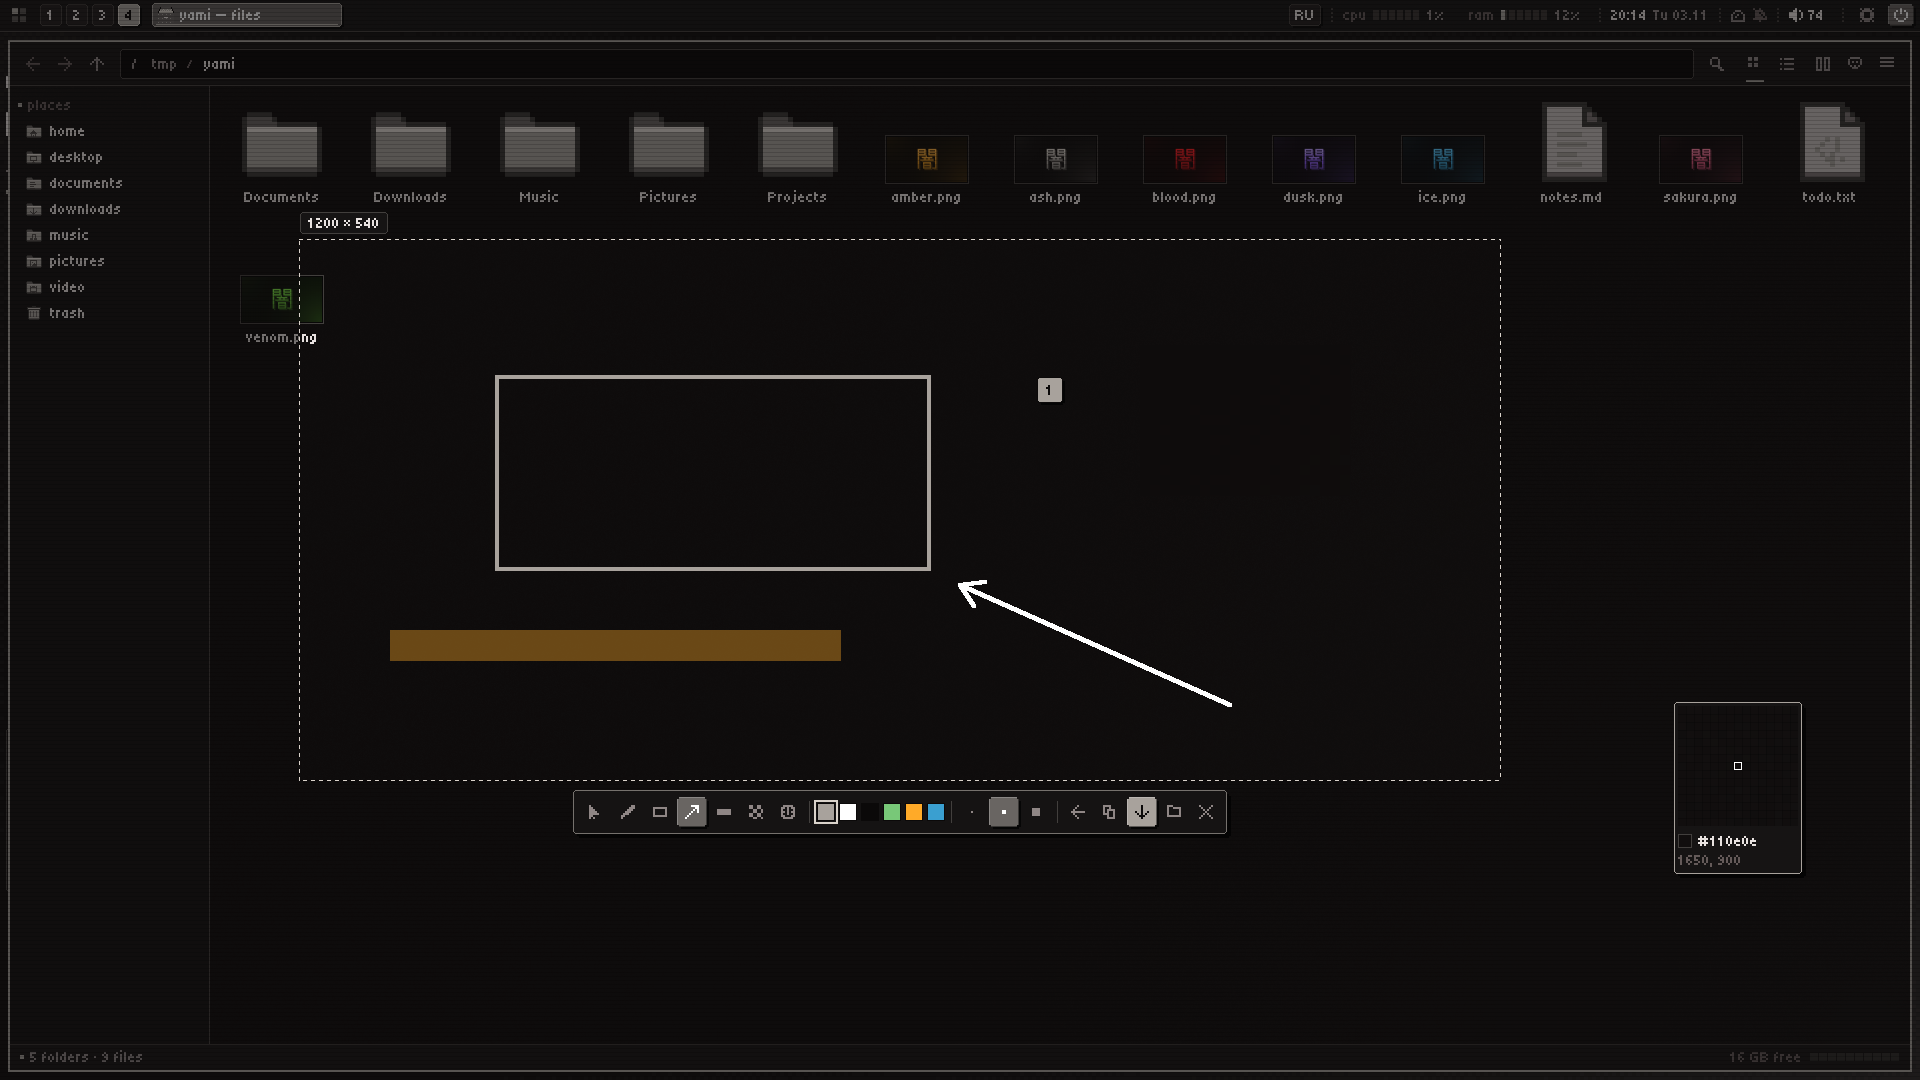
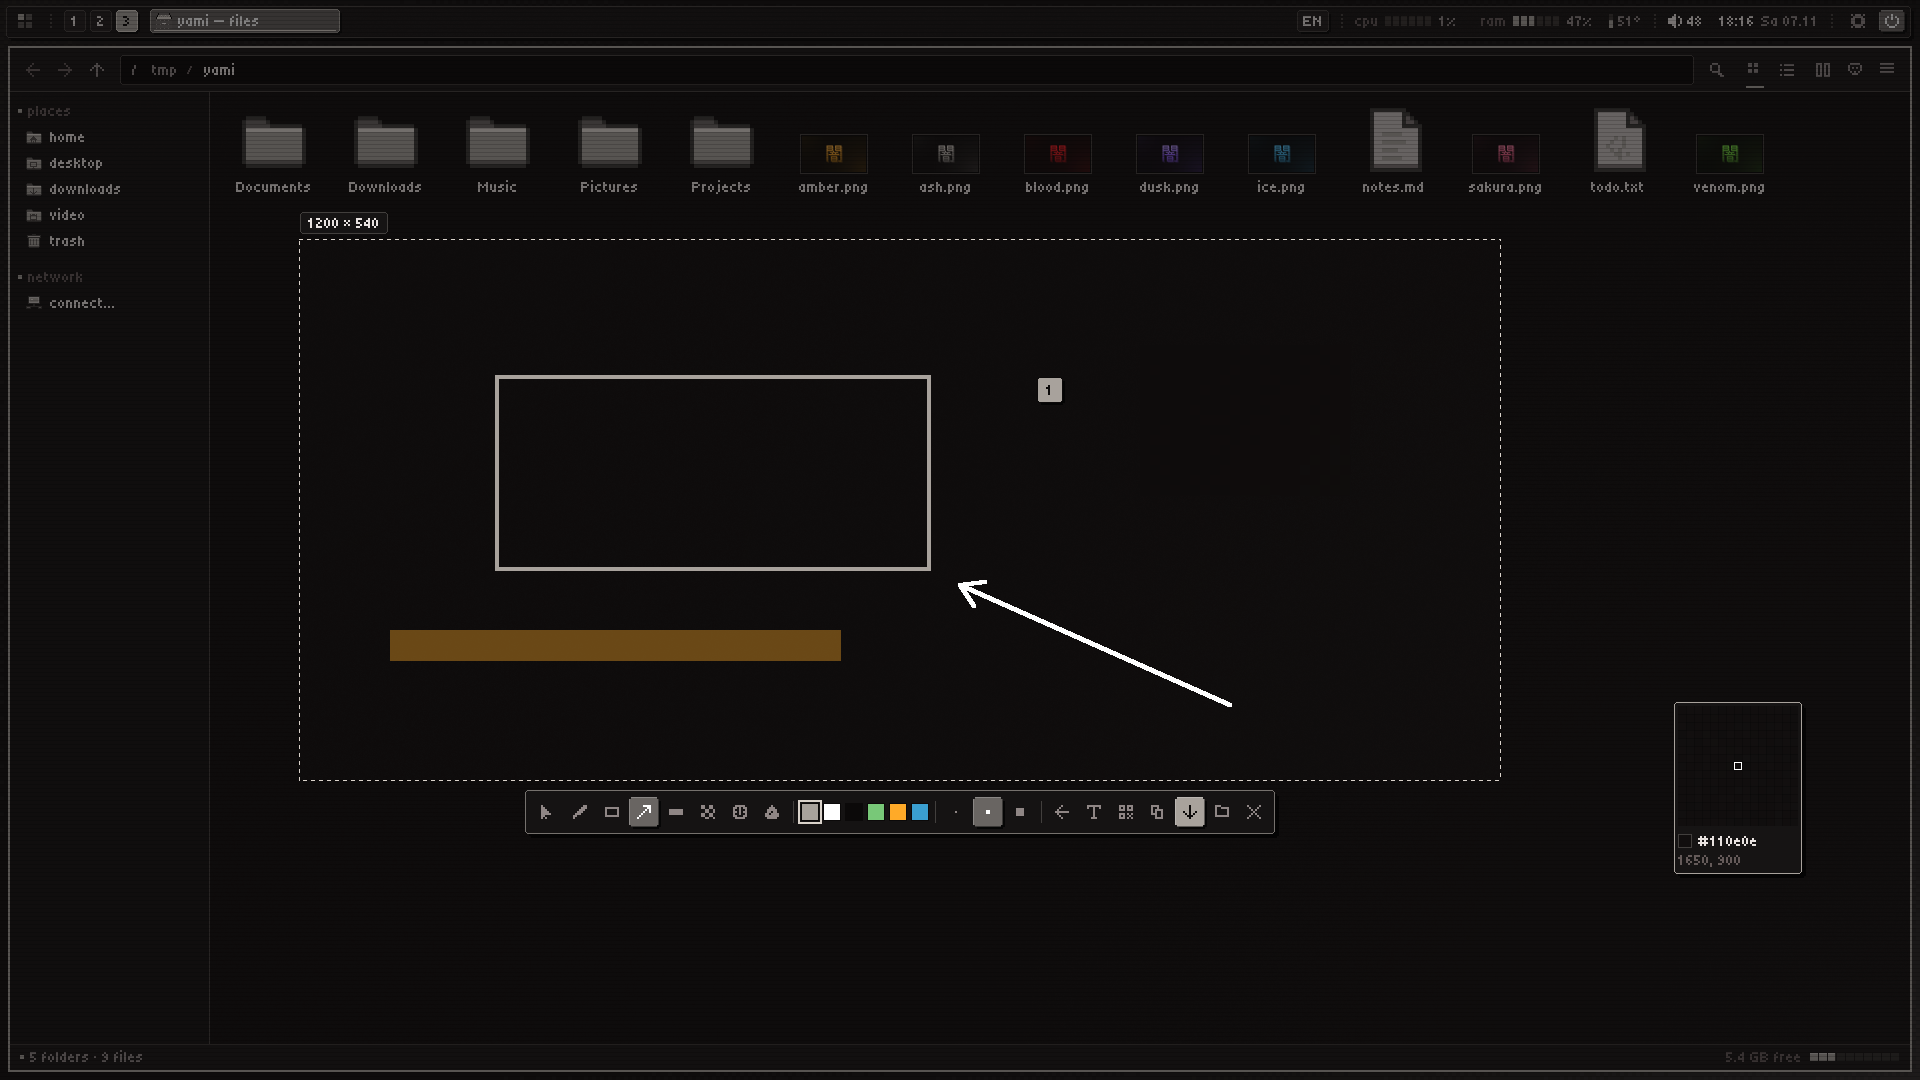
docs: fresh README screenshots of 2.6, the login screen among them
A new pass of tools/readme-shots.sh on 2.6.0, in English and Russian:
the plain desktop (widgets in two columns), the launcher, yami-files,
the screenshot overlay, yami-view, settings and the sound popup, plus
the login screen, which joins the gallery first.

The script now shoots with nothing of the machine in view: a plain bar
(no tray, night light or Bluetooth), the network widget as a
temperature graph (it names the interface), no old update log in the
updates tab, and the apps a local, unversioned ~/.config/yami/shots-hide
lists hidden from the launcher; everything is put back after.

diff --git a/README.ru.md b/README.ru.md
@@ -27,7 +27,7 @@ https://github.com/user-attachments/assets/1bdd1250-d04c-4993-b66f-0dc29b4512a5
 блокировки, виджеты и настройки — на Rust, в общую память, одним бинарником на ~6 МБ, которому
 хватает **около 15 МБ памяти**. Файлы, картинки, экран входа и все остальные программы — в той же палитре.
 
-<img src=".github/assets/features-ru.png" width="100%" alt="Что внутри: шелл на 15 МБ, один акцент на всё, сделано для игр, файлы и картинки, скриншоты, шторка для стрима, подписанные обновления, 8 дистрибутивов">
+<img src=".github/assets/features-ru.png" width="100%" alt="Что внутри: шелл на 15 МБ, один акцент на всё, свой экран входа, сделано для игр, файлы, картинки и плеер, скриншоты, шторка для стрима, подписанные обновления, 8 дистрибутивов, три языка">
 
 Ставится на любой из восьми дистрибутивов одной командой, сборка из исходников:
 
@@ -149,6 +149,10 @@ bash <(curl -fsSL https://raw.githubusercontent.com/Trendorin/yami/main/install.
 ## Скриншоты
 
 Настоящие скриншоты сеанса yami (`tools/readme-shots.sh`).
+
+**Экран входа** · свой: лицо экрана блокировки, пароль проверяет greetd
+
+<img src=".github/assets/login-ru.png" width="100%" alt="Экран входа: большие часы, пользователь и поле пароля на пиксельных обоях под вуалью">
 
 **yami-files** · миниатюры, места, вкладки и две панели; диалог файлов для всех программ
 

diff --git a/README.md b/README.md
@@ -27,7 +27,7 @@ shell, **yami-shell**, draws the bar, launcher, dock, notifications, lock screen
 settings itself, in Rust and shared memory, in one ~6 MB binary that uses **about 15 MB of RAM**.
 Files, images, the login screen and every other app follow the same palette.
 
-<img src=".github/assets/features-en.png" width="100%" alt="What is inside: a ~15 MB shell, one accent for everything, made for games, files and viewer, screenshots, a curtain for streams, signed updates, any distribution">
+<img src=".github/assets/features-en.png" width="100%" alt="What is inside: a ~15 MB shell, one accent for everything, our own login screen, made for games, files, viewer and player, screenshots, a curtain for streams, signed updates, any distribution, three languages">
 
 Install on any of eight distributions with one command, built from source:
 
@@ -143,6 +143,10 @@ Everything it does and its flags: [Installation](#installation).
 ## Screenshots
 
 Real screenshots of a yami session (`tools/readme-shots.sh`).
+
+**Login screen** · our own greeter: the lock screen's face, greetd checks the password
+
+<img src=".github/assets/login-en.png" width="100%" alt="The login screen: the big clock, the user and the password field on the pixel wallpaper under the veil">
 
 **yami-files** · thumbnails, places, tabs and split view; the file dialog of every app
 
